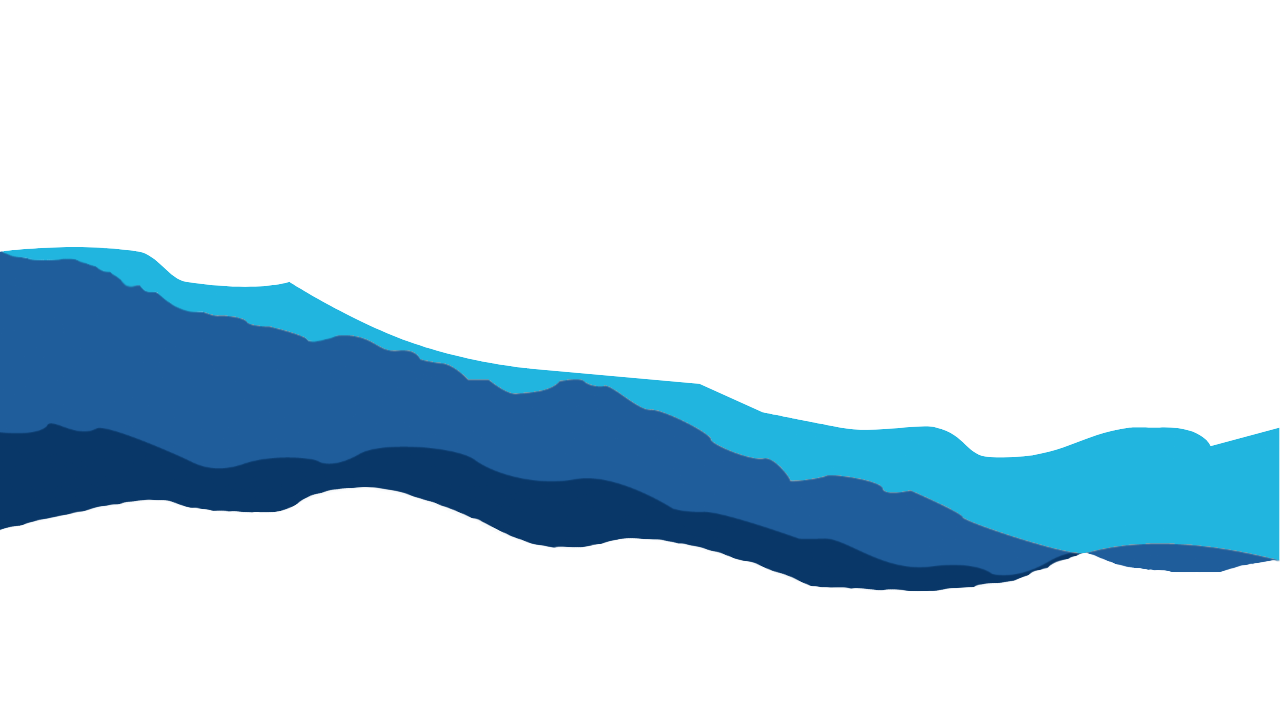
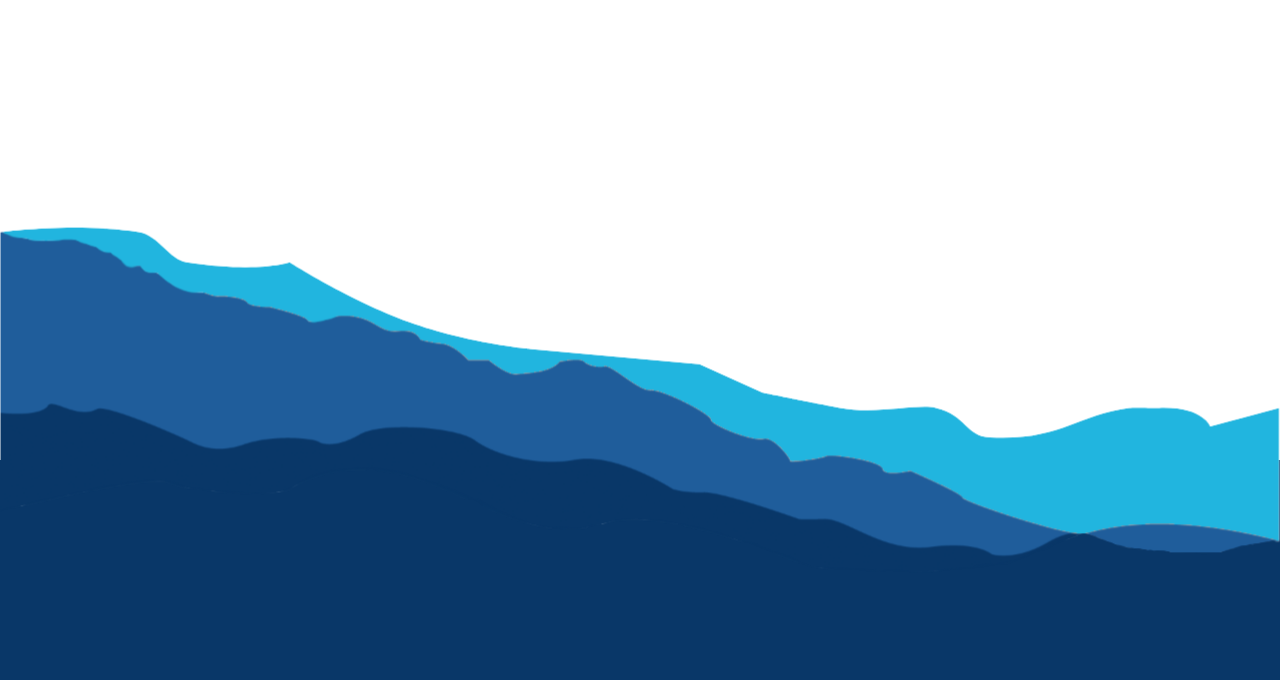
portfolio  style  img  レスポンシブ対応　img 修正

diff --git a/style.css b/style.css
@@ -98,6 +98,20 @@ h2 { font-size: 40px; }
 
 .fw-bold { font-weight: bold; }
 
+@media screen and (max-width: 768px) {
+    h1 { font-size: 35px; }
+    h2 { font-size: 30px; }
+    .textS   { font-size: 13px; }
+    .textM   { font-size: 20px; }
+    .textL   { font-size: 35px; }
+    .textSub { font-size: 25px; }
+    .spaceTL { padding-top: 20px; }
+  }
+
+@media screen and (max-width: 414px) {
+  h2 { font-size: 40px; }
+}
+
 /*　背景色　*/
 
 .bc-black   { background-color: #18191B; }
@@ -141,8 +155,15 @@ h2 { font-size: 40px; }
 
 /* 背景画像_Portfolio */
 .bg-P_mtHida { 
-  background: url(img/bg/P_mtHida.png) no-repeat center 10%;
+  background: url(img/bg/P_mtHida.png) no-repeat center -3%;
   background-size: cover;
+}
+@media screen and (max-width: 768px) {
+  .bg-P_mtHida {
+    background: url(img/bg/P_mtHida.png) no-repeat center 125%;
+    background-size: contain;
+    background-color: #fff;
+  }
 }
 .bg-P_cloud  { background: url(img/bg/P_cloud.png); }
 .bg-Lab89 { background: url(img/portfolio/Lab89.png); }
@@ -237,14 +258,25 @@ h2 { font-size: 40px; }
   
   /* スマホ（３７５）
   タブレット（７６８）サイズ用 コード*/
-  @media screen and (max-width: 768px) {
-    h1 { font-size: 35px; }
-    h2 { font-size: 30px; }
-    .textS   { font-size: 13px; }
-    .textM   { font-size: 20px; }
-    .textL   { font-size: 35px; }
-    .textSub { font-size: 25px; }
+  @media screen and (max-width: 1024px) {
+    .T1-Sec,
+    .S1-Sec,
+    .P1-Sec,
+    .A1-Sec {
+      height: 480px;
+    }
   }
+
+  @media screen and (max-width: 768px) {
+    .T1-Sec,
+    .S1-Sec,
+    .P1-Sec,
+    .A1-Sec {
+      height: 341px;
+    }
+  }
+  
+
   @media screen and (max-width: 375px) {
     
   }
@@ -783,9 +815,9 @@ WEB  portfolio.html
 }
 
 .P-bgContainer {
-  /*width: 33.5vw;*/
   width: 50%;
   height: 33.5vh;
+  box-shadow: 0px 0px 11px 0px rgba(20,20,20,0.44);
 }
 
 .P-Box {
@@ -793,7 +825,7 @@ WEB  portfolio.html
 }
 .P-lists {
   position: absolute;
-  bottom: -1%;
+  bottom: 0;
 }
 .cloud {
   width: 100vw;
@@ -802,6 +834,9 @@ WEB  portfolio.html
 /* スマホ（３７５）
    タブレット（７６８）サイズ用 コード*/
    @media screen and (max-width: 768px) {
+    .portfolio .spaceL {
+      padding-bottom: 40px;
+    }
     .P-Wrap {
       flex-direction: column;
       padding: 0 120px;
@@ -811,13 +846,37 @@ WEB  portfolio.html
       margin-top: 20px;
       order: 1;
     }
+    .P-Wrap:nth-child(2n+1) {
+      margin-bottom: 17%;
+    }
     .P-Wrap:nth-child(2n+1) .P-Container {
       padding-left: 0;
     }
     .P-bgContainer {
       width: 100%;
     }
+    .P-lists {
+      position: absolute;
+      bottom: -30px;
+    }
   }
+  @media screen and (max-width: 414px) {
+    .flex-container {
+      position: relative;
+      left: -20px;
+    }
+    .h2-icons {
+      margin: 0;
+    }
+    .P-Wrap, .P-Wrap:nth-child(2n+1) {
+      padding: 0 30px;
+      margin: 0 0 20%;
+    }
+    .P-lists {
+      bottom: -42px;
+    }
+  }
+    
   @media screen and (max-width: 375px) {
   
   }

diff --git a/portfolio.html b/portfolio.html
@@ -21,7 +21,7 @@
        Sec ＞　Wrap　＞ Container　＞　Box
      -->
 </head>
-<body class="bc-indigo">
+<body class="portfolio bc-indigo">
     <!-- Navigation -->
   <nav class="menu bc-gray">
     <button class="menu__button">
@@ -86,7 +86,7 @@
   <!-- Tab bar -->
   <setion class="P2-Sec spaceL">
     <div class='tabs'>
-      <div class='tab-buttons spaceL'>
+      <div class='tab-buttons'>
         <span class='content1'>ALL</span>
         <span class='content2'>WEB</span>
         <span class='content3'>CREATIVE</span>
@@ -96,7 +96,7 @@
       <div class='tab-content'>
         <div class='content1'>
             <!-- Web セクション -->
-            <div class="flex-container spaceL"><!--flex 指定-->
+            <div class="flex-container spaceL spaceTL"><!--flex 指定-->
               <div class="h2-icons bg-web"></div>
               <h2>WEB</h2>
             </div>
@@ -153,7 +153,7 @@
               </div>
 
               <!-- Creative セクション -->
-              <div class="flex-container spaceL"><!--flex 指定-->
+              <div class="flex-container spaceL spaceTL"><!--flex 指定-->
                 <div class="h2-icons bg-creat"></div>
                 <h2>CREATIVE</h2>
               </div>
@@ -246,7 +246,7 @@ RemixはLogic ProXで自作したものです。</p>
                 <div class="P-bgContainer bg-shoespicks"></div>
               </div>
               <!-- Activity セクション -->
-              <div class="flex-container spaceL"><!--flex 指定-->
+              <div class="flex-container spaceL spaceTL"><!--flex 指定-->
                 <div class="h2-icons bg-activ"></div>
                 <h2>ACTIVITY</h2>
               </div>
